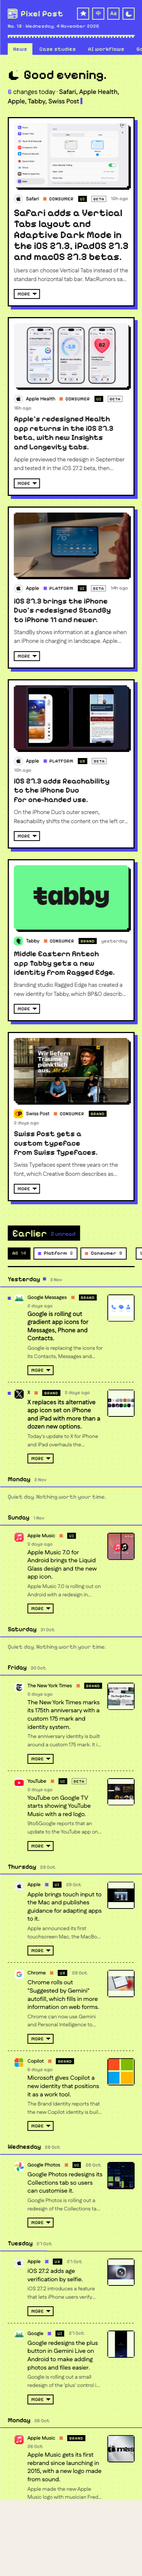
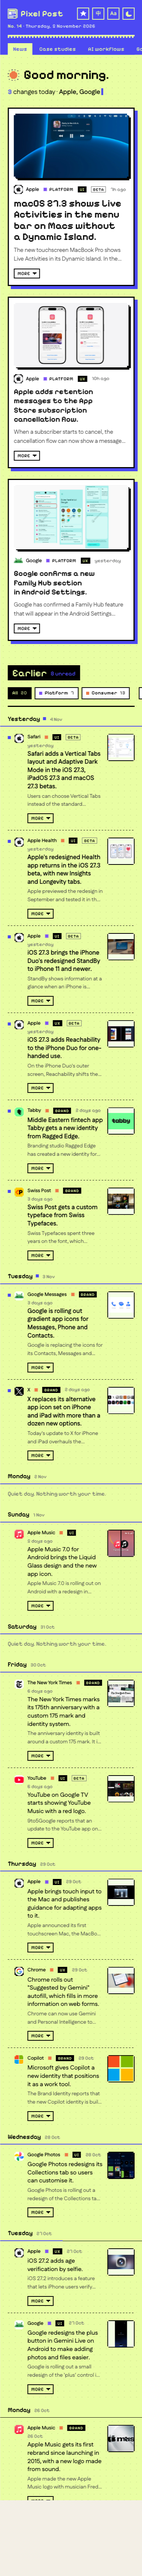
Pictures: use an article's only picture, never a site's stock share card; retry pages; redo a mostly-offline morning run

diff --git a/tests/upload.test.ts b/tests/upload.test.ts
@@ -77,7 +77,12 @@ test('morning job: waits for 07:00, then the first hour that gets through finish
   const bin = join(dir, 'bin');
   mkdirSync(bin);
   // A fake node (the collector) and git; `pushes` says how each git push ends.
-  writeFileSync(join(bin, 'node'), `#!/bin/sh\ncase "$1" in *workflows*) echo workflows >> "${dir}/calls" ;; *) echo collect >> "${dir}/calls" ;; esac\nexit 0\n`);
+  // A fake node: `collect-exit` says how the collector ends (0, or 4 when most sources were unreachable).
+  writeFileSync(join(dir, 'collect-exit'), '0');
+  writeFileSync(
+    join(bin, 'node'),
+    `#!/bin/sh\ncase "$1" in *workflows*) echo workflows >> "${dir}/calls" ;; *backfill*) echo backfill >> "${dir}/calls" ;; *) echo collect >> "${dir}/calls"; exit $(cat "${dir}/collect-exit") ;; esac\nexit 0\n`,
+  );
   writeFileSync(join(dir, 'workflows.yaml'), 'enabled: true\n');
   writeFileSync(
     join(bin, 'git'),
@@ -133,3 +138,44 @@ exit 0
   assert.equal(run(), 0);
   assert.equal(readFileSync(join(dir, 'calls'), 'utf8').trim(), '', 'a third run that day does nothing');
 });
+
+test('morning job: a run that could not reach most sources is saved, and the next hour collects again (at most 3 a day)', async () => {
+  const { cpSync, mkdirSync } = await import('node:fs');
+  const dir = mkdtempSync(join(tmpdir(), 'daily-'));
+  mkdirSync(join(dir, 'scripts'));
+  cpSync('scripts/daily.sh', join(dir, 'scripts/daily.sh'));
+  cpSync('scripts/upload.sh', join(dir, 'scripts/upload.sh'));
+  const bin = join(dir, 'bin');
+  mkdirSync(bin);
+  writeFileSync(join(dir, 'collect-exit'), '4');
+  writeFileSync(
+    join(bin, 'node'),
+    `#!/bin/sh\ncase "$1" in *backfill*) echo backfill >> "${dir}/calls" ;; *) echo collect >> "${dir}/calls"; exit $(cat "${dir}/collect-exit") ;; esac\nexit 0\n`,
+  );
+  writeFileSync(join(bin, 'git'), `#!/bin/sh\ncase "$1" in push) echo push >> "${dir}/calls" ;; diff) exit 1 ;; esac\nexit 0\n`);
+  writeFileSync(join(bin, 'date'), `#!/bin/sh\ncase "$1" in +%H) echo 07 ;; +%F) echo 2026-11-05 ;; *) /bin/date "$@" ;; esac\n`);
+  for (const f of ['node', 'git', 'date']) chmodSync(join(bin, f), 0o755);
+  const run = () => {
+    writeFileSync(join(dir, 'calls'), '');
+    execFileSync('/bin/sh', [join(dir, 'scripts/daily.sh')], { env: { ...process.env, PATH: `${bin}:/usr/bin:/bin`, RADAR_NODE: join(bin, 'node'), RADAR_NOTIFY: '/usr/bin/true', RADAR_UPLOAD_WAITS: '0 0 0 0 0' } });
+    return readFileSync(join(dir, 'calls'), 'utf8').trim().split('\n');
+  };
+
+  // 07:00, mostly offline: what was found is uploaded, the pictures are tried again, and the day is not done.
+  assert.deepEqual(run(), ['collect', 'backfill', 'push']);
+  // 08:00, still offline: the same.
+  assert.deepEqual(run(), ['collect', 'backfill', 'push']);
+  // 09:00, back online: collects again, re-reads pictures, and the day is done.
+  writeFileSync(join(dir, 'collect-exit'), '0');
+  assert.deepEqual(run(), ['collect', 'backfill', 'push']);
+  assert.deepEqual(run(), [''], 'the rest of the day does nothing');
+
+  // A day that stays offline stops retrying after the third run.
+  writeFileSync(join(dir, 'collect-exit'), '4');
+  writeFileSync(join(dir, '.cache/last-success'), '');
+  writeFileSync(join(dir, '.cache/last-collected'), '');
+  writeFileSync(join(dir, '.cache/partial-runs'), '2026-11-05\n2026-11-05\n');
+  assert.deepEqual(run(), ['collect', 'backfill', 'push']);
+  assert.deepEqual(run(), [''], 'a third unreachable run is kept as the day');
+});
+

diff --git a/tests/pipeline.test.ts b/tests/pipeline.test.ts
@@ -9,6 +9,8 @@ import type { Llm, MessagesRequest } from '../src/llm.ts';
 import { matchApp, prefilter } from '../src/prefilter.ts';
 import { mergeDay } from '../src/radar.ts';
 import { readAppStore } from '../src/stores.ts';
+import { addCompares } from '../src/compare.ts';
+import { fetchPageMeta } from '../src/pagemeta.ts';
 import { collect, defaultPaths, SourcesDownError } from '../src/run.ts';
 import type { Radar, Seen } from '../src/types.ts';
 
@@ -570,4 +572,39 @@ test('App Store notes for an app listed in another country are read from that co
   const india = asked.find((u) => u.includes('country=in'))!;
   assert.ok(india.includes('434613896'), 'Zomato is looked up in India');
   assert.ok(!asked.find((u) => u.includes('country=us'))!.includes('434613896'));
+});
+
+test('pictures: the article’s only picture is used, and a site’s stock share card never beats it (Apple, 5 Nov)', async () => {
+  const base = { app: 'Apple', category: 'platform' as const, kind: 'ux' as const, date: '', published_at: '', beta: false, importance: 3, what: 'w', why: 'y', sources: [{ title: 't', url: 'https://developer.apple.com/news?id=fk9ps3gv', publisher: 'Apple Developer News' }], icon: null, collected_at: '' };
+  const shot = { src: 'https://devimages-cdn.apple.com/wwdc-services/articles/images/A6247A25/2048.jpeg', alt: 'Two iPhones showing a subscription cancellation screen', caption: '' };
+  const stock = 'https://developer.apple.com/news/images/og/app-store-connect-og.png';
+  const items = [
+    { ...base, id: 'with-stock', headline: 'Apple adds retention messages', image: stock },
+    { ...base, id: 'no-image', headline: 'Apple adds retention messages', image: null },
+    { ...base, id: 'only-stock', headline: 'Apple posts a beta', image: stock },
+  ];
+  const pictures: Record<string, (typeof shot)[][]> = { 'with-stock': [[shot]], 'no-image': [[shot]], 'only-stock': [[]] };
+  let asked = 0;
+  const llm: Llm = { mode: 'company', canSearch: false, messages: async () => (asked++, { content: [{ type: 'text', text: '{}' }], stopReason: 'end_turn', usage: { input_tokens: 0, output_tokens: 0, web_searches: 0 } }) };
+  const r = await addCompares(CFG, items, async (i) => pictures[i.id], llm, new Map());
+  const by = Object.fromEntries(r.items.map((i) => [i.id, i]));
+  assert.equal(by['with-stock'].image, shot.src, 'the screenshot, not the stock card');
+  assert.equal(by['no-image'].image, shot.src, 'one picture is enough');
+  assert.equal(by['only-stock'].image, null, 'a stock card alone shows the app icon instead');
+  assert.equal(asked, 0, 'one picture needs no model');
+});
+
+test('page reads: a page that does not load is tried once more; one that answers with an error is not', async () => {
+  let calls = 0;
+  const flaky = (async () => {
+    calls++;
+    if (calls === 1) throw new TypeError('fetch failed');
+    return new Response('<html><head><meta property="og:image" content="https://x/a.jpg"></head></html>');
+  }) as typeof fetch;
+  assert.equal((await fetchPageMeta('https://x/post', flaky, 0))?.image, 'https://x/a.jpg');
+  assert.equal(calls, 2);
+  calls = 0;
+  const blocked = (async () => (calls++, new Response('no', { status: 403 }))) as typeof fetch;
+  assert.equal(await fetchPageMeta('https://x/post', blocked, 0), null);
+  assert.equal(calls, 1);
 });

diff --git a/src/compare.ts b/src/compare.ts
@@ -65,6 +65,11 @@ const isTiny = (src: string) => {
 /** One key per picture across hosts and sizes: i0.wp.com/site.com/x.jpg?w=1500 and site.com/x.jpg are the same. */
 const keyOf = (src: string) => src.replace(/^https?:\/\/i\d\.wp\.com\//, 'https://').replace(/[?#].*$/, '').replace(/-\d+x\d+(?=\.\w+$)/, '').replace(/^https?:\/\/(www\.)?/, '');
 
+/** A site's stock share card (Apple's /news/images/og/app-store-connect-og.png): the same for every article, so it
+    never shows the change. An article picture always beats it. */
+const STOCK = /\/(og|social|share|sharing)[-_]?(images?)?\/|[-_](og|share|social)\.(png|jpe?g|webp)$|default[-_](og|share|social)|(og|share|social)[-_]default/i;
+export const isStockImage = (src: string | null) => !!src && STOCK.test(src.replace(/[?#].*$/, ''));
+
 /** Upload month in the address (WordPress: /2026/11/), as the first of that month. */
 const uploadedAt = (src: string): Date | null => {
   const m = src.match(/\/(20\d\d)\/(0[1-9]|1[0-2])\//);
@@ -90,7 +95,8 @@ export function candidatePictures(perSource: PageImage[][], current: string | nu
     out.push(img);
   };
   for (const list of perSource) list.slice(0, 5).forEach(add);
-  if (current && !seen.has(keyOf(current))) add({ src: current, alt: '', caption: '' });
+  // The page's own share picture is a candidate too, unless it is the site's stock card.
+  if (current && !seen.has(keyOf(current)) && !isStockImage(current)) add({ src: current, alt: '', caption: '' });
   return out.slice(0, 8);
 }
 
@@ -145,9 +151,20 @@ export async function addCompares(
     }
     // A before/after chosen earlier stays: re-picking must not swap a clear pair for a guess.
     if (item.compare) return;
-    // With one picture or none there is nothing to choose between.
     const images = candidatePictures(await imagesFor(item), item.image, item.published_at);
-    if (images.length < 2) return;
+    if (!images.length) {
+      // Nothing better on the page: a stock share card is still not the change, so the app icon shows instead.
+      if (isStockImage(item.image)) item.image = null;
+      return;
+    }
+    // One picture: the article's only picture is the one to show, unless it is the one already shown.
+    if (images.length === 1) {
+      if (images[0].src !== item.image) {
+        item.image = images[0].src;
+        notes.push(`${item.id}: the article's only picture`);
+      }
+      return;
+    }
     // Captions that name the old and the new picture are clearer than any guess, so they win.
     const named = pairFromWords(images);
     if (named) {
@@ -196,7 +213,11 @@ export async function addCompares(
     if (fresh) {
       item.image = fresh;
       notes.push(`${item.id}: picture of the new design from captions`);
-    } else byText.push({ item, images });
+    } else {
+      // Until the words settle it, the first article picture beats a missing or stock one.
+      if (!item.image || isStockImage(item.image)) item.image = images[0].src;
+      byText.push({ item, images });
+    }
   });
 
   // Without being able to look, the model still gets the pictures' words, for what captions alone don't settle.

diff --git a/src/backfill-compare.ts b/src/backfill-compare.ts
@@ -1,9 +1,11 @@
-// npm run backfill-compare [-- --days N] [--dry-run]
+// npm run backfill-compare [-- --days N] [--missing] [--dry-run]
 // Picks the picture again for items already in radar.json, by re-reading their source pages and letting the model
 // look at the pictures (see compare.ts). Without --days, only items that have no before/after yet; with --days N,
-// every item from the last N days. Only `compare` and `image` change; headlines and text are never touched.
+// every item from the last N days. --missing keeps only items with no picture or a site's stock share card (the
+// morning job uses `--days 1 --missing` after a run that could not read most pages). Only `compare` and `image`
+// change; headlines and text are never touched.
 
-import { addCompares } from './compare.ts';
+import { addCompares, isStockImage } from './compare.ts';
 import { loadConfig } from './config.ts';
 import { companyLlm, companyLogin, type Llm } from './llm.ts';
 import { fetchPageMeta } from './pagemeta.ts';
@@ -24,8 +26,10 @@ const login = cfg.provider === 'company' ? companyLogin() : null;
 const llm: Llm | null = login ? companyLlm(login) : null;
 if (!llm) console.log('No company login found; only captions that clearly say "before"/"after" are used.');
 
-const todo = days ? radar.days.slice(0, days).flatMap((d) => d.items) : radar.days.flatMap((d) => d.items).filter((i) => !i.compare);
-console.log(days ? `${todo.length} items from the last ${days} days` : `${todo.length} items without before/after`);
+const missing = argv.includes('--missing');
+const all = days ? radar.days.slice(0, days).flatMap((d) => d.items) : radar.days.flatMap((d) => d.items).filter((i) => !i.compare);
+const todo = missing ? all.filter((i) => !i.compare && (!i.image || isStockImage(i.image))) : all;
+console.log(`${todo.length} items ${days ? `from the last ${days} days` : 'without before/after'}${missing ? ' with no picture yet' : ''}`);
 const pages = new Map<string, Awaited<ReturnType<typeof fetchPageMeta>>>();
 const imagesFor = async (item: Item) => {
   const out = [];

diff --git a/src/collect.ts b/src/collect.ts
@@ -171,6 +171,7 @@ try {
     if (!existsSync(paths.icons) && existsSync('data/icons.json')) copyFileSync('data/icons.json', paths.icons);
   }
   const fetchImpl = backfill ? memoFetch() : fetch;
+  let last: Report | null = null;
   for (let back = Math.max(backfill - 1, 0); back >= 0; back--) {
     const at = new Date(now.getTime() - back * 86_400_000);
     const date = localDate(at, cfg.timezone);
@@ -192,7 +193,17 @@ try {
       noSearch: flag('no-search') || back > 0,
     });
     print(report, at, flag('verbose'));
+    last = report;
     if (back > 0) out('\n' + '─'.repeat(60) + '\n');
+  }
+  // Most sources could not be reached at all (no network yet, right after the Mac woke up): what was found is saved,
+  // and exit code 4 tells the morning job to try again the next hour. Sites that answer with an error don't count.
+  if (last && !noModel && !backfill) {
+    const offline = last.feeds.failed.filter((f) => !/^HTTP \d|not an RSS|no article links|could not read any/.test(f.error)).length;
+    if (offline > (last.feeds.ok + last.feeds.failed.length) / 2) {
+      out(`\nMost sources could not be reached (${offline} of ${last.feeds.ok + last.feeds.failed.length} did not answer). What was found is saved; the next hour tries again.`);
+      process.exitCode = 4;
+    }
   }
 } catch (err) {
   if (err instanceof AnswerPendingError) {

diff --git a/src/pagemeta.ts b/src/pagemeta.ts
@@ -123,11 +123,17 @@ export function parsePageMeta(html: string, pageUrl: string): PageMeta {
   };
 }
 
-export async function fetchPageMeta(url: string, fetchImpl: typeof fetch = fetch): Promise<PageMeta | null> {
-  try {
-    const html = await fetchText(url, { fetchImpl, timeoutMs: 15_000, maxBytes: 600_000 });
-    return parsePageMeta(html, url);
-  } catch {
-    return null;
+/** One retry after a pause: a page that fails right after the Mac wakes up usually loads a few seconds later. */
+export async function fetchPageMeta(url: string, fetchImpl: typeof fetch = fetch, retryMs = 4000): Promise<PageMeta | null> {
+  for (let attempt = 0; attempt < 2; attempt++) {
+    try {
+      const html = await fetchText(url, { fetchImpl, timeoutMs: 15_000, maxBytes: 600_000 });
+      return parsePageMeta(html, url);
+    } catch (err) {
+      // A page that answers with an error (403, 404) will answer the same way again.
+      if (/^HTTP \d/.test((err as Error).message) || attempt) return null;
+      await new Promise((r) => setTimeout(r, retryMs));
+    }
   }
+  return null;
 }

diff --git a/src/run.ts b/src/run.ts
@@ -272,7 +272,8 @@ export async function collect(opts: CollectOptions): Promise<Report> {
     const result = await curate(cfg, llm, snap.candidates, { now, recent: recentItems(radar, date), seen, icons });
     report.usage.push(result.usage);
     report.warnings.push(...result.warnings);
-    const getMeta = async (url: string) => (url in snap.pages || offline ? (snap.pages[url] ?? null) : fetchPageMeta(url, fetchImpl));
+    // A page that could not be read while gathering is tried once more now, for the kept items' pictures.
+    const getMeta = async (url: string) => (offline || snap.pages[url] ? (snap.pages[url] ?? null) : (snap.pages[url] = await fetchPageMeta(url, fetchImpl)));
     const post = await postCheck(cfg, result.items, now, getMeta);
     // Before/after: App Store screenshots for version-note items, article pictures for the rest.
     const byUrl = new Map(snap.candidates.map((c) => [c.url, c]));

diff --git a/README.md b/README.md
@@ -45,7 +45,7 @@ Runs the job and prints what it kept and what it dropped, with the reason for ea
 Other commands:
 
 - `npm run check-feeds`: tests every feed URL and says how fresh each one is. Run it after adding a source.
-- `npm run backfill-compare`: picks the picture again for items already in `radar.json`, by re-reading their pages: items with no before/after, or with `-- --days N` every item from the last N days (`-- --dry-run` to only show what it would do). Only `compare` and `image` change.
+- `npm run backfill-compare`: picks the picture again for items already in `radar.json`, by re-reading their pages: items with no before/after, or with `-- --days N` every item from the last N days (`-- --dry-run` to only show what it would do). `-- --missing` keeps only cards with no picture or a site's stock share card. Only `compare` and `image` change.
 - `npm run icons`: looks up app icons again (App Store artwork, or a favicon) and saves them to `data/icons.json`.
 - `npm run build`: builds the site into `dist/`.
 - `npm run dev`: builds and serves the site at http://localhost:5180.
@@ -167,6 +167,8 @@ A fourth page, **Games**, is a break between reads. It needs no data and no mode
 - The rules are in `site/games-logic.js`, tested in `tests/games.test.ts`. The game files load only when the Games tab opens.
 
 ## The morning job (this Mac)
+
+**When most sources can't be reached** (the Mac has just woken and the network isn't up yet), the run saves what it found, uploads it, and collects again the next hour, up to three runs a day. Stories already reported are not added twice, and cards that got no picture have their pages read again. Pages that fail to load are also retried once within a run.
 
 `scripts/daily.sh` runs the collector with the company Claude, then commits and uploads `data/` to GitHub, which republishes the page. macOS starts it **every hour from 07:00 to 23:00**, and also when you log in. The first time it finds the Mac awake and online, it does the day's run; every later check that day does nothing. So if the laptop was off or away from the company network at 07:00, the edition appears within an hour of it coming back.
 
